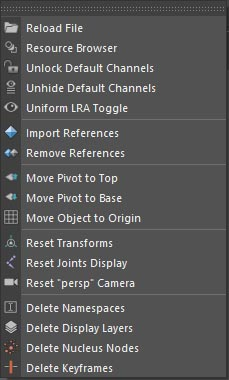
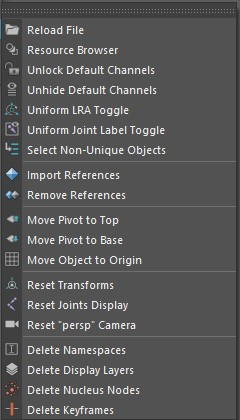
Created utility to find non-unique objects (#10)

diff --git a/python-scripts/gt_utilities.py b/python-scripts/gt_utilities.py
@@ -42,6 +42,9 @@
  1.9 - 2021-01-05
  Added Uniform Joint Label Toggle
  
+ 2.0 - 2021-02-05
+ Added "Select Non-Unique Objects" Utility
+ 
  To Do:
  Add proper error handling to all functions.
  New functions:
@@ -80,7 +83,7 @@ except ImportError:
     from PySide.QtGui import QIcon, QWidget
     
 # Script Version
-gtu_script_version = "1.9"
+gtu_script_version = "2.0"
     
 ''' ____________________________ General Functions ____________________________'''
 
@@ -301,7 +304,44 @@ def gtu_uniform_jnt_label_toggle():
         pass
     finally:
         cmds.undoInfo(closeChunk=True, chunkName=function_name)
+
+def gtu_select_non_unique_objects():
+    ''' Selects all non-unique objects (objects with the same short name) '''  
+    
+    def get_short_name(obj):
+            '''
+            Get the name of the objects without its path (Maya returns full path if name is not unique)
+
+                    Parameters:
+                            obj (string) - object to extract short name
+            '''
+            if obj == '':
+                return ''
+            split_path = obj.split('|')
+            if len(split_path) >= 1:
+                short_name = split_path[len(split_path)-1]
+            return short_name
+
+    all_transforms = cmds.ls(type = 'transform')
+    short_names = []
+    non_unique_transforms = []
+    for obj in all_transforms: # Get all Short Names
+        short_names.append(get_short_name(obj))
         
+    for obj in all_transforms:
+        short_name = get_short_name(obj)        
+        if short_names.count(short_name) > 1:
+            non_unique_transforms.append(obj)
+
+    cmds.select(non_unique_transforms, r=True)
+    
+    if len(non_unique_transforms) > 0:
+        message = '<span style=\"color:#FF0000;text-decoration:underline;\">' +  str(len(non_unique_transforms)) + '</span> non-unique objects were selected.'
+    else:
+        message = 'All objects seem to have unique names in this scene.'
+    cmds.inViewMessage(amg=message, pos='botLeft', fade=True, alpha=.9)
+        
+
 def gtu_import_references():
     ''' Imports all references ''' 
     try:
@@ -944,6 +984,7 @@ def gtu_build_gui_about_gt_tools():
 #gtu_remove_references()
 #gtu_uniform_lra_toggle()
 #gtu_uniform_jnt_label_toggle()
+#gtu_select_non_unique_objects()
 
 #gtu_copy_material()
 #gtu_paste_material()

diff --git a/docs/README.md b/docs/README.md
@@ -1136,6 +1136,9 @@ If painting the skin weights with "ngSkinTools" (third party plugin) you might h
 <h3>Uniform Joint Label Toggle</h3>
 <p>Uniformly toggles the option "Joint > Joint Labelling > Draw Label" (".drawLabel") for all joints in the scene (according to the state of the majority of them).</p>
 
+<h3>Select Non-Unique Objects</h3>
+<p>Selects all objects with the same short name. (A short name is the name of the object without its path)</p>
+
 <h3>Import References</h3>
 <p>Attempts to import all loaded references.</p>
 
